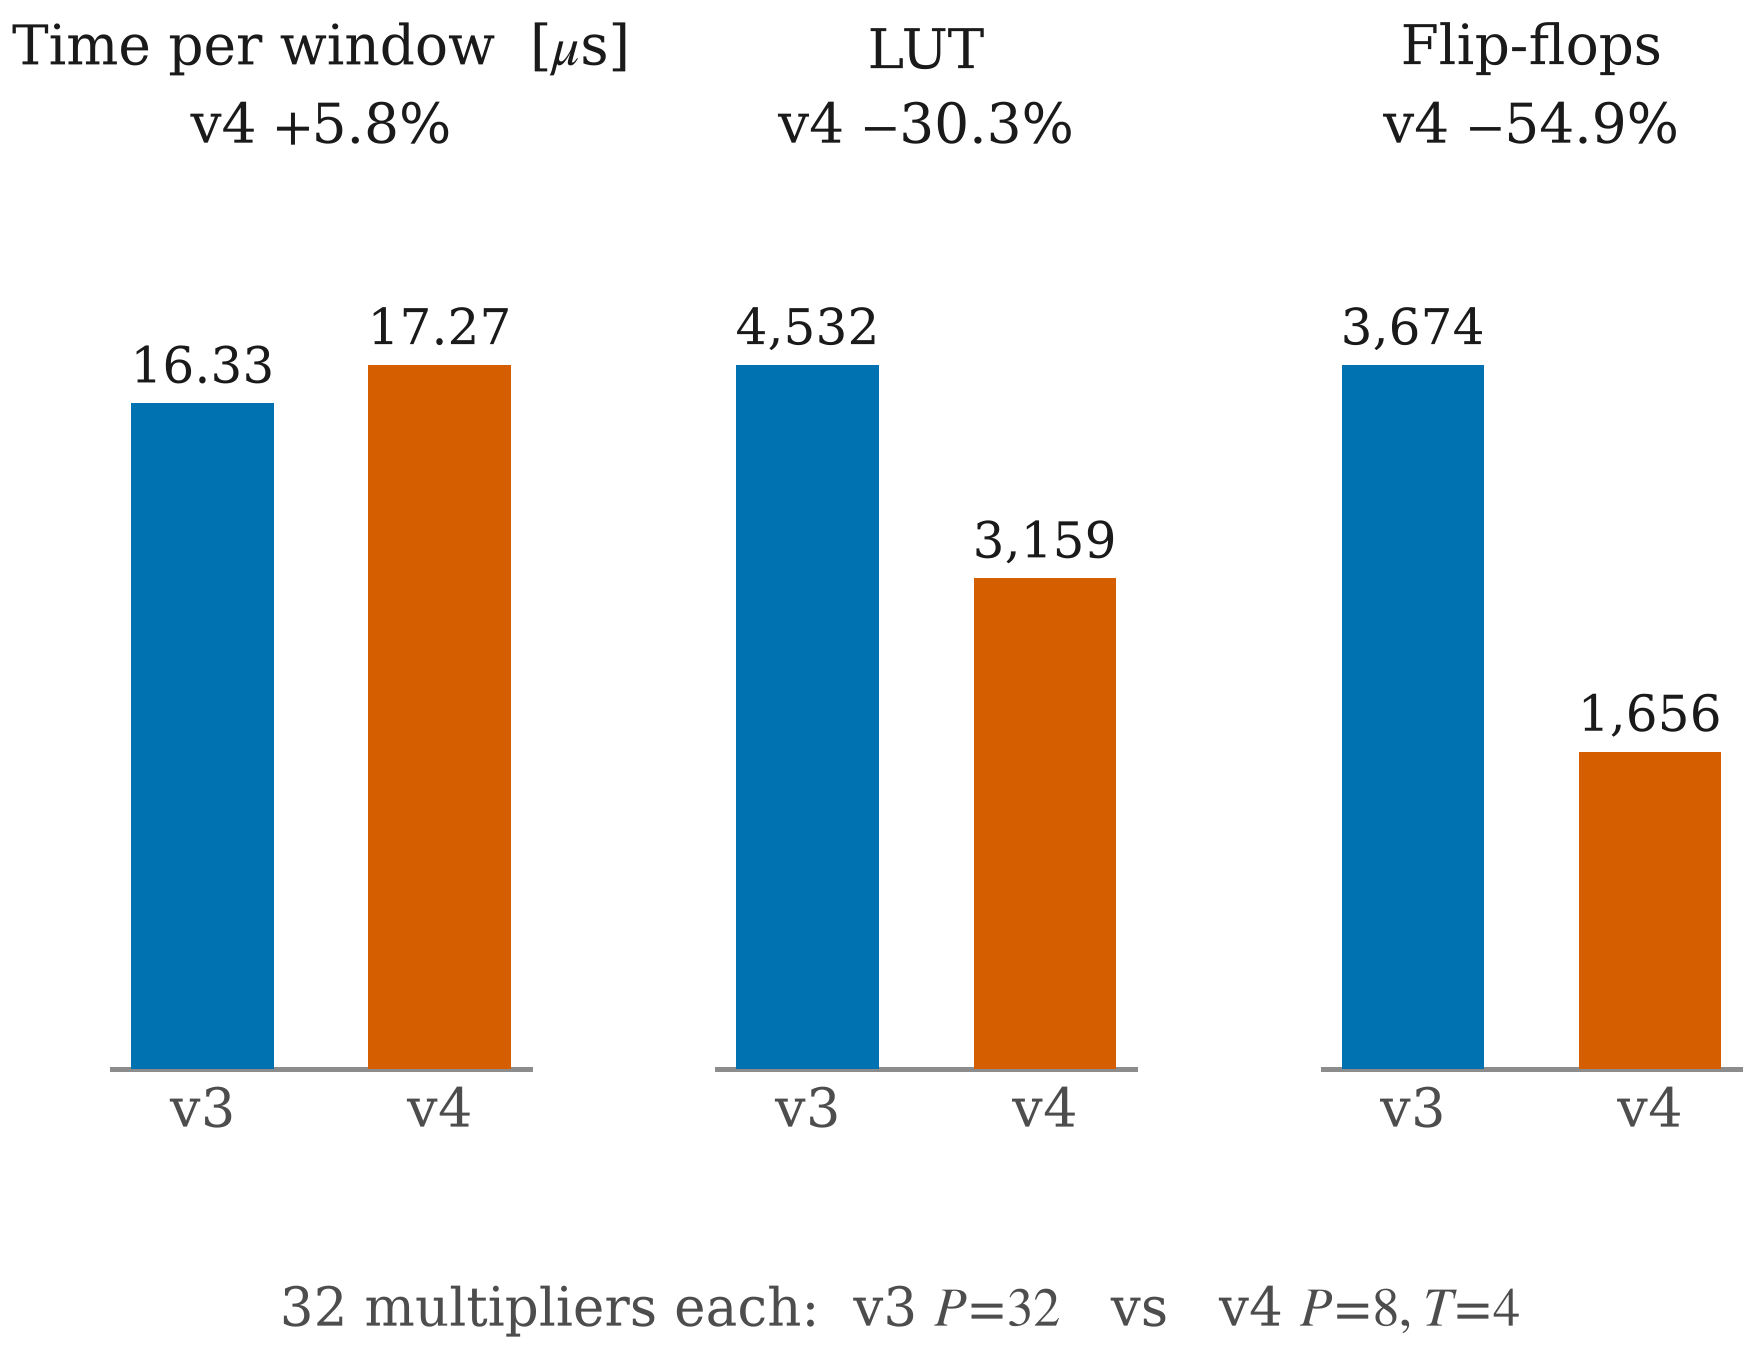
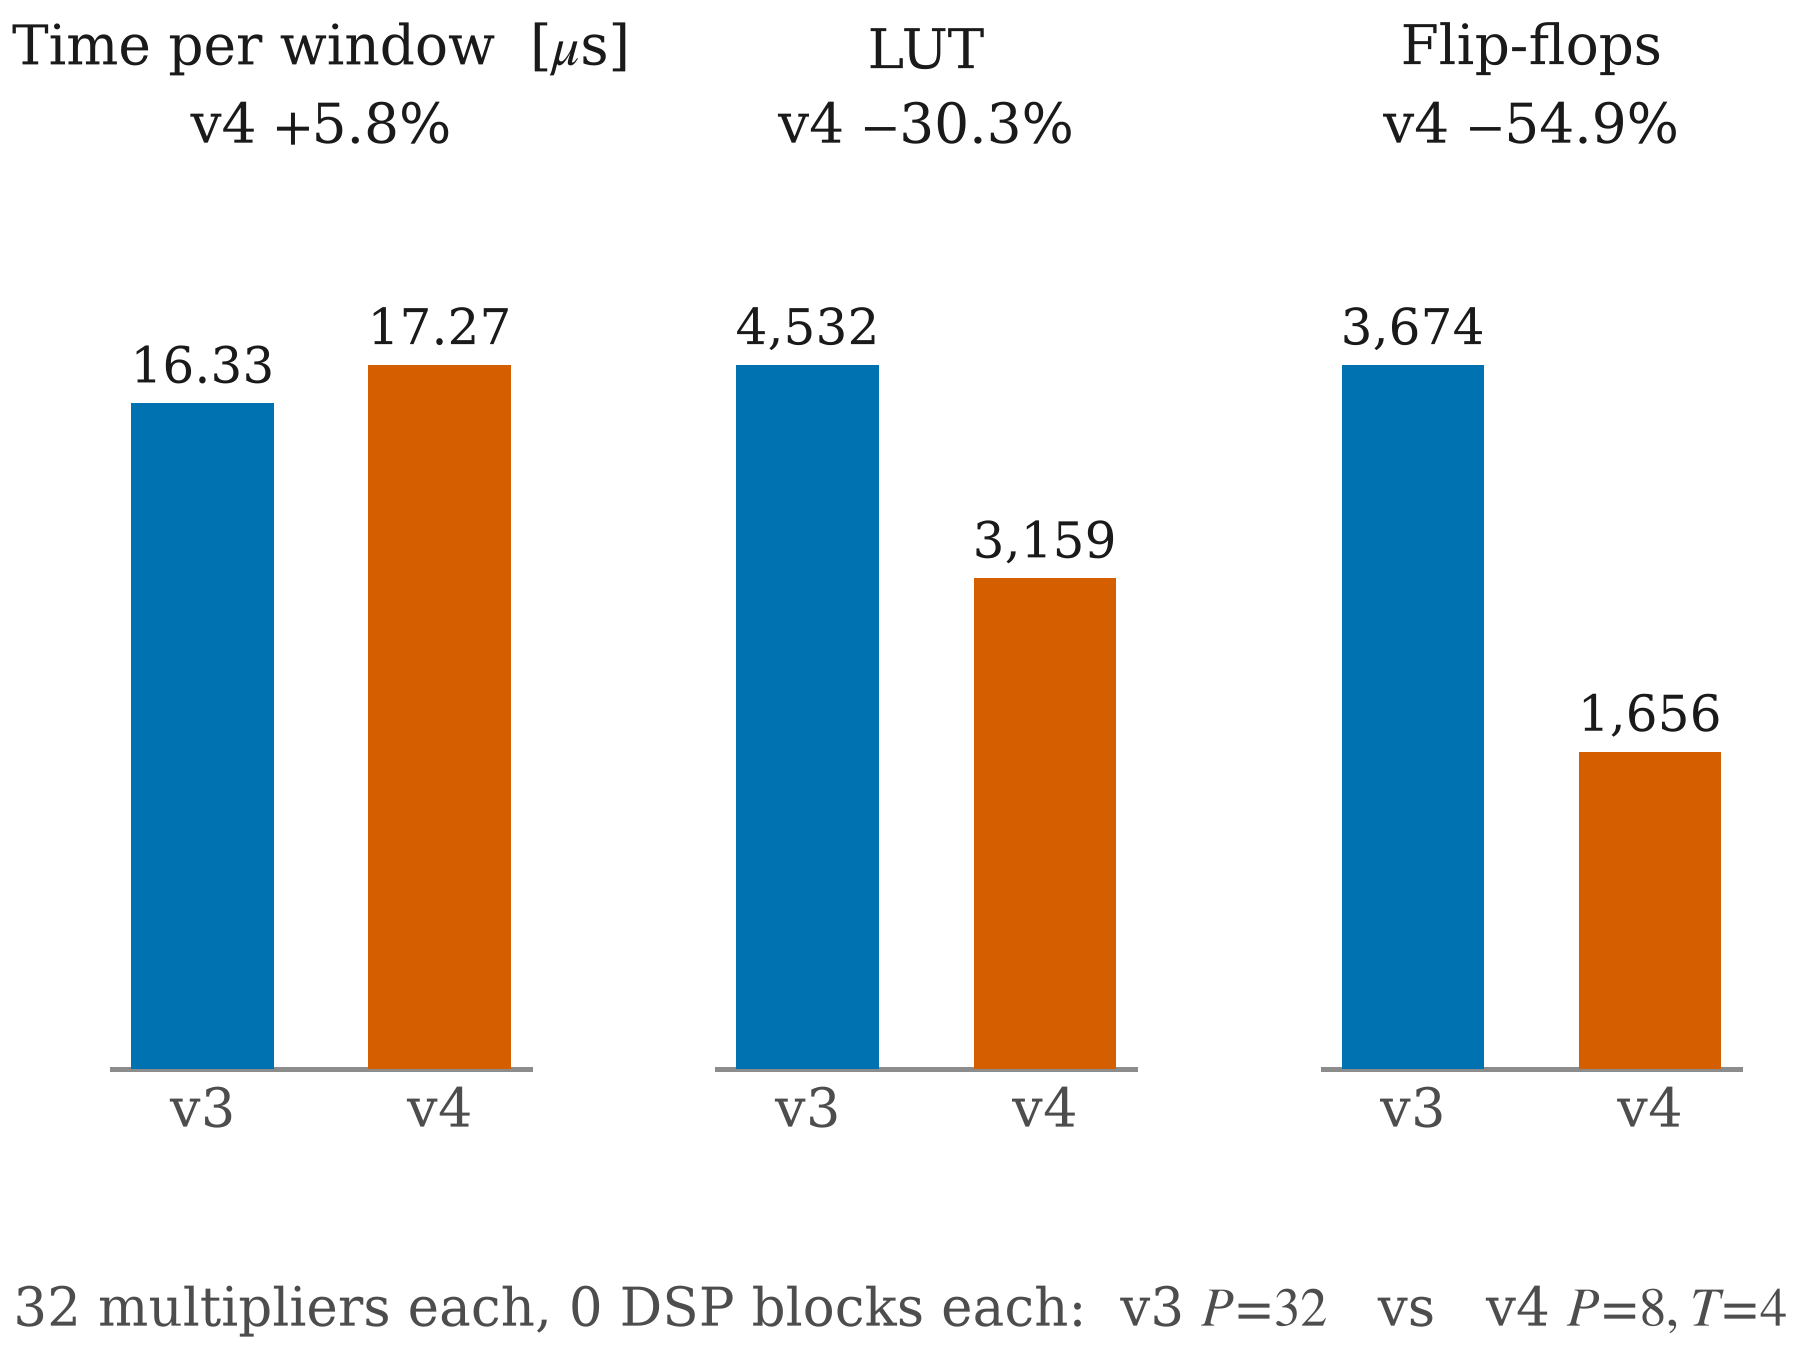
Record the utilisation breakdown: the area difference is the output datapath
Both configurations report zero DSP blocks, so all 32 multipliers are built
from fabric in each. The arrays are the same size and the same arithmetic,
which is what makes the LUT comparison mean anything: their cost cancels
out of the difference, and the remaining 1,373 LUTs are the rest of the
datapath rather than the multipliers.

The distributed RAM settles it. v3 at P=32 uses 704 LUTRAM and v4 at P=8
uses 176 -- 22.0 per lane in both, to the decimal. It tracks P and not
P x T, which is the mechanism this work claims, measured rather than
argued.

Fitting "fixed + per-lane x P" through the two points gives 2,701 + 57.2
LUTs, of which 35.2 is logic and 22.0 is LUTRAM -- the split checks
against itself. Flip-flops come out at 983 + 84.1 per lane, and DEPTH x 32
= 64 result bits plus pipelining accounts for the 84. BRAM goes the other
way, v4 spending 32x36K + 4x18K against v3's 33x36K, which is the weight
RAM fragmentation that banking was expected to cost.

Claude-Session: https://claude.ai/code/session_01KmQd2ww7ZkypMsRjhWuU5X

diff --git a/paper/figures/data.py b/paper/figures/data.py
@@ -47,14 +47,38 @@ FAIR_PCT = 5.1                # v4 costs this much more time at the same budget
 
 # ------------------------------------------------- synthesis, 32 multipliers ---
 # Vivado out-of-context, xc7z020clg484-1, 10 ns constraint, I/O delays applied.
+# Read from the hierarchical utilization reports, top row, 2026-09-20:
+#   build/ooc_1789904889_7964/overlapped_window_mac/routed_utilization.rpt
+#   build/ooc_1789905694_7964/banked_window_mac/routed_utilization.rpt
+#
+# Both designs report DSP Blocks = 0, so all 32 multipliers are built from
+# fabric in both. That is what makes the LUT comparison mean something: the two
+# multiplier arrays are the same size and the same arithmetic, so their cost
+# cancels out of the difference, and what is left is the rest of the datapath.
 ISO32 = {
-    "v3": dict(label="v3  P=32, T=1", mult=32, cycles_per_window=1808.1,
+    "v3": dict(label="v3  P=32, T=1", mult=32, parallel=32, cycles_per_window=1808.1,
                wns_ns=0.970, fmax_mhz=110.74, us_per_window=16.33,
-               lut=4532, ff=3674, bram36=33, bram18=0),
-    "v4": dict(label="v4  P=8, T=4", mult=32, cycles_per_window=1910.7,
+               lut=4532, logic_lut=3828, lutram=704, ff=3674,
+               bram36=33, bram18=0, dsp=0),
+    "v4": dict(label="v4  P=8, T=4", mult=32, parallel=8, cycles_per_window=1910.7,
                wns_ns=0.961, fmax_mhz=110.63, us_per_window=17.27,
-               lut=3159, ff=1656, bram36=32, bram18=4),
+               lut=3159, logic_lut=2983, lutram=176, ff=1656,
+               bram36=32, bram18=4, dsp=0),
 }
+
+# Fitting "resource = fixed + per_lane x P" through those two points. The two
+# designs spend the same 32 multipliers but differ 4x in P, so anything that
+# tracks P shows up here and anything that tracks P x T does not.
+#
+#   LUTRAM   704/32 = 22.0 per lane      176/8 = 22.0 per lane   -- exactly equal
+#   FF       983 fixed + 84.1 per lane   (DEPTH x 32 = 64 result bits + pipeline)
+#   LogicLUT 2701 fixed + 35.2 per lane  (output mux and per-lane control)
+#   TotalLUT 2701 fixed + 57.2 per lane  = 35.2 + 22.0, which checks against itself
+def per_lane(field):
+    a, b = ISO32["v3"], ISO32["v4"]
+    slope = (a[field] - b[field]) / (a["parallel"] - b["parallel"])
+    fixed = b[field] - slope * b["parallel"]
+    return fixed, slope
 
 # ------------------------------------------------------ hardware measurement ---
 # v3 P=8, DEPTH=2, 100 MHz on XC7Z020-CLG484. Bitstream WNS +0.919 ns, 0 errors.

diff --git a/paper/figures/fig4_iso_tradeoff.py b/paper/figures/fig4_iso_tradeoff.py
@@ -44,7 +44,9 @@ for ax, (title, unit, a, b, fmt) in zip(axes, panels):
     ax.spines["bottom"].set_color(ps.MUTED)
     ax.tick_params(axis="x", length=0, pad=2, colors=ps.INK2)
 
-fig.text(0.5, -0.11, f"32 multipliers each:  v3 $P\\!=\\!32$   vs   v4 $P\\!=\\!8, T\\!=\\!4$",
+fig.text(0.5, -0.11,
+         "32 multipliers each, 0 DSP blocks each:  "
+         "v3 $P\\!=\\!32$   vs   v4 $P\\!=\\!8, T\\!=\\!4$",
          ha="center", fontsize=6.4, color=ps.INK2)
 fig.subplots_adjust(wspace=0.45)
 ps.save(fig, "fig4_iso_tradeoff")
